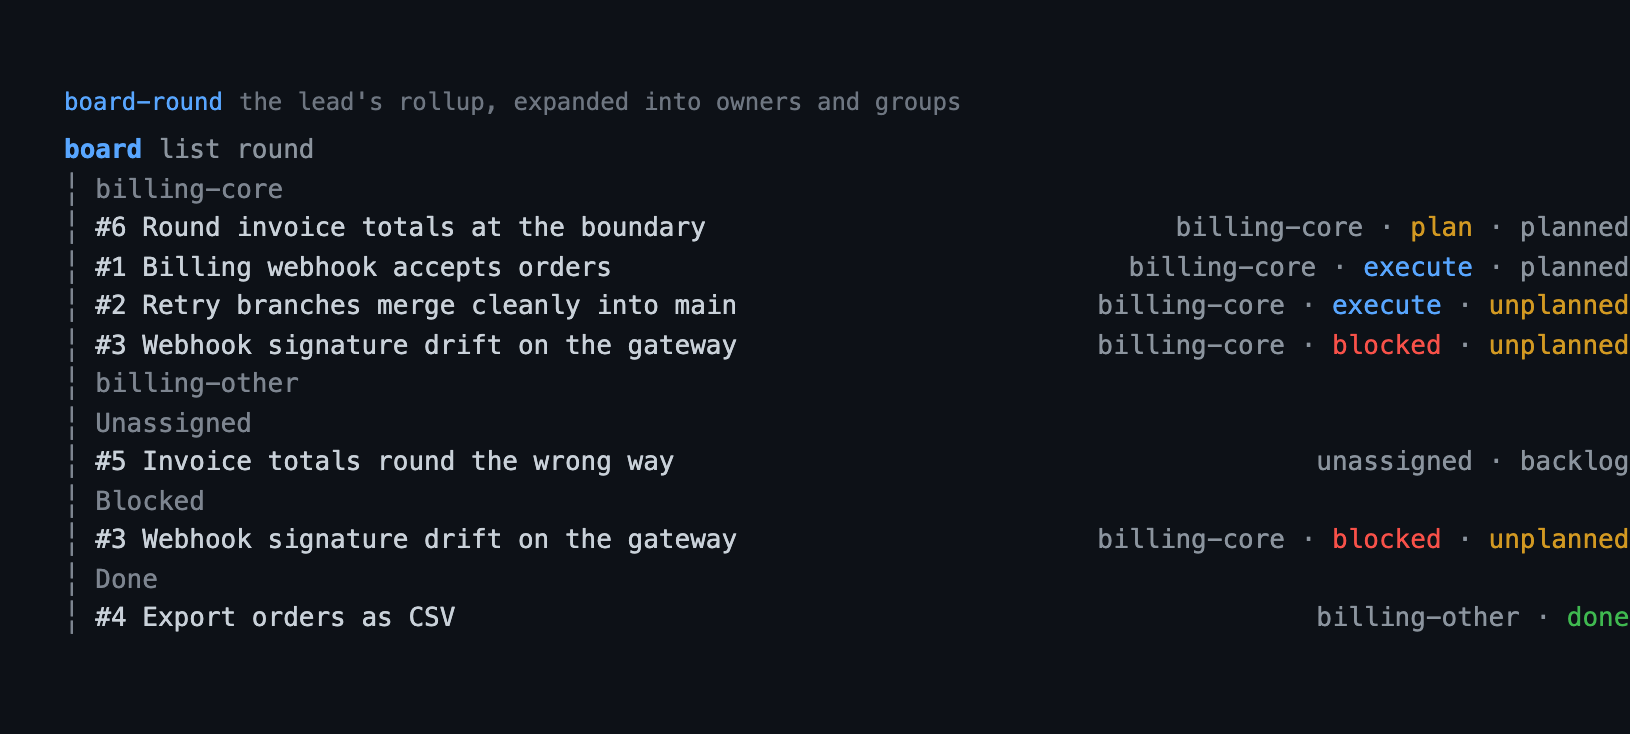
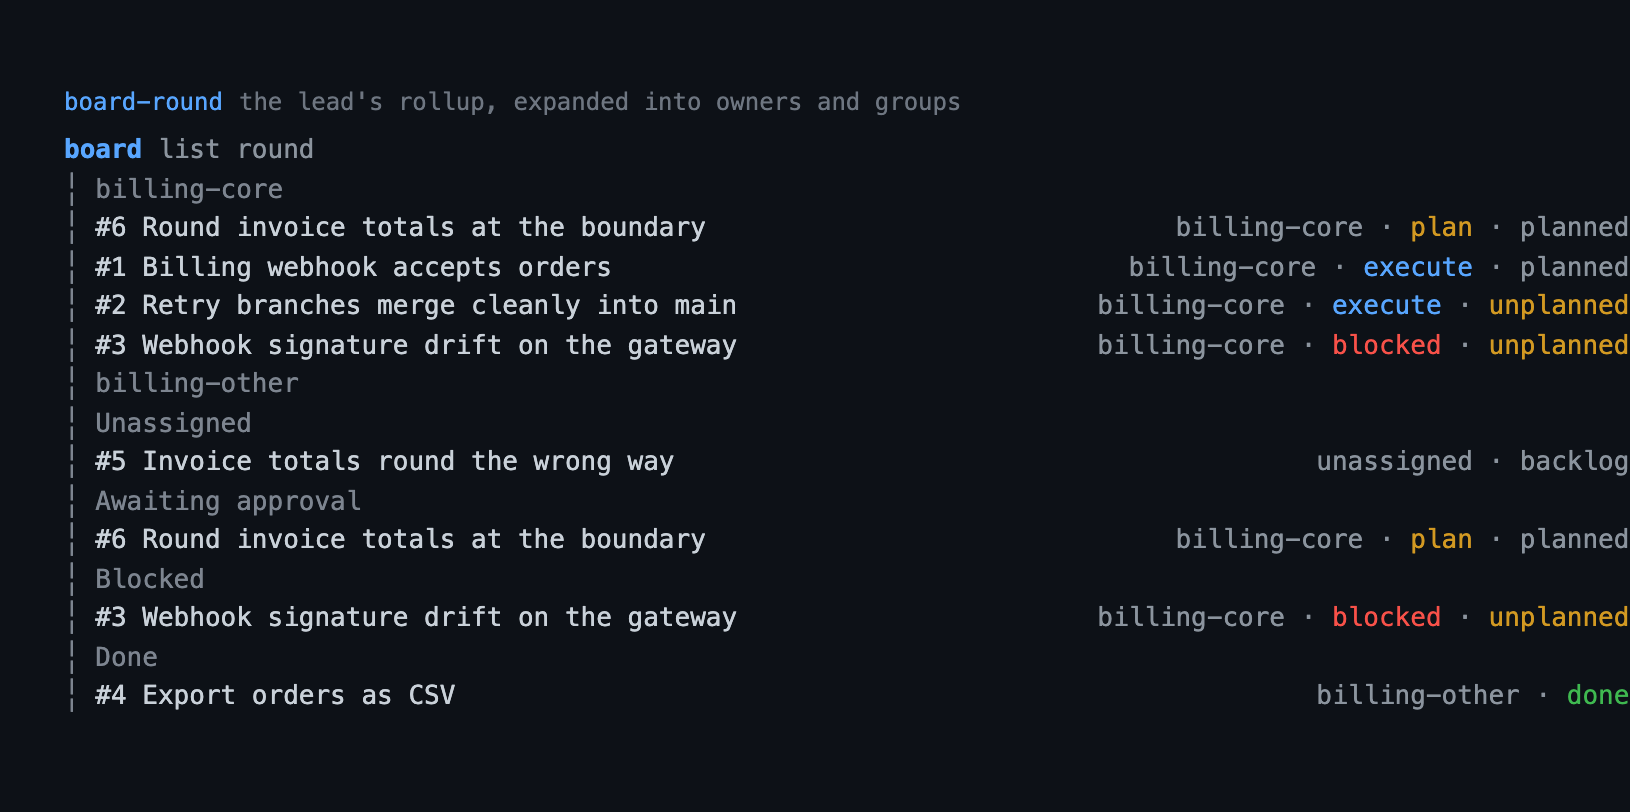
fix(board): draw the lead's queue and re-check a pile move
The transcript's `list round` block sectioned six of the rollup's seven
groups, so `awaiting approval` — the queue a lead acts on — was only in the
text above it. Every group now has a section, pinned by a test, and the
gallery's `board-round` image is captured again from the same fixture.

`archive` and `drop` re-check the card's revision before the file is moved
or removed. A write landing between the read and the rename could recreate
the card on the board while its copy lay in the archive, or beside a dropped
card's `ended/` record.

`assign` loses the note it carried for the deleted page write path, and with
it the held-card branch no path could reach: a held card is refused, and
`reclaim` is how it changes hands, which the board and team docs now say.
The approve refusal's unreachable second branch, two orphaned doc comments,
and the comments still claiming the page writes are gone or corrected.

diff --git a/lib/board/steps.ts b/lib/board/steps.ts
@@ -50,38 +50,23 @@ export function claim(card: Card, actor: Actor, board: BoardIndex, limits: WipLi
 	return enter(card, "plan", board, limits, { owner: ownerOf(actor), offeredAt: undefined });
 }
 
-/** Hand a card to somebody: a pool card comes with the lane, a held one only changes hands. */
-export function assign(
-	card: Card,
-	to: Actor,
-	rawNote: unknown,
-	actor: Actor,
-	now: number,
-	board: BoardIndex,
-	limits: WipLimits,
-): Prepared {
+/**
+ * Hand a pool card to somebody: the owner is recorded and the card enters `plan`.
+ *
+ * A held card is refused rather than handed over, because the owner a handoff would skip is
+ * the one the rules protect: changing hands is `reclaim` and a second assignment. Naming the
+ * session that already holds it is the one held case left, and it is a no-op.
+ */
+export function assign(card: Card, to: Actor, board: BoardIndex, limits: WipLimits): Prepared {
 	if (LANE_RULES[card.lane].terminal) return { error: `${cardRef(card.id)} is done; it cannot be assigned.` };
-	if (card.owner !== undefined && !holds(card, to)) return { error: heldBy(card) };
-	if (holds(card, to)) return { changed: false, fields: null };
+	if (card.owner !== undefined) {
+		return holds(card, to) ? { changed: false, fields: null } : { error: heldBy(card) };
+	}
 	const waiting = waitingOn(card, board);
 	if (waiting !== undefined) return { error: waiting };
-	// Assignment moves a card only out of the pool: a card already in `plan`, `execute`, or
-	// `blocked` keeps the lane it earned, and the new holder inherits the state.
-	const fields: Partial<Card> = { owner: ownerOf(to), offeredAt: undefined };
-	if (card.owner === undefined) {
-		const entered = enter(card, "plan", board, limits, fields);
-		if ("error" in entered) return entered;
-		if (entered.fields === null) return entered;
-		Object.assign(fields, entered.fields);
-	}
-	if (rawNote !== undefined) {
-		const parsed = normalizeNote(rawNote);
-		if ("error" in parsed) return { error: parsed.error };
-		// One revision, not two: the history says who it went to in the same write that
-		// recorded the owner, so a reader never sees the assignment without the sentence.
-		Object.assign(fields, appendNote(card, actor, now, parsed.text));
-	}
-	return { changed: true, fields };
+	// A pool card is the only card this moves, so it comes with the lane a claim would give it:
+	// the owner inherits the work from its first step.
+	return enter(card, "plan", board, limits, { owner: ownerOf(to), offeredAt: undefined });
 }
 
 /** Hand a card back to the pool. The contract and its approval stay: the plan did not change. */
@@ -168,7 +153,7 @@ function enter(
 	board: BoardIndex,
 	limits: WipLimits,
 	fields: Partial<Card>,
-): Prepared {
+): { error: string } | { fields: Partial<Card>; changed: true } {
 	const full = wipRefusal(lane, [...board.values()], limits);
 	if (full !== undefined) return { error: `${cardRef(card.id)} cannot enter ${lane}: ${full}` };
 	return { changed: true, fields: { ...fields, lane } };
@@ -323,15 +308,17 @@ export function approve(card: Card, actor: Actor, now: number): Prepared {
 	if (holds(card, actor)) {
 		return { error: `${heldBy(card)} Its contract is approved by a session that does not hold it.` };
 	}
-	const missing = missingContractFields(card.contract);
-	if (missing.length > 0) {
-		return {
-			error: `${cardRef(card.id)} has no contract to approve yet: ${missing.join(", ")} ${missing.length === 1 ? "is" : "are"} missing.`,
-		};
+	const contract = card.contract;
+	const missing = missingContractFields(contract);
+	// One refusal for both shapes: a card with no contract names every field, and one with a
+	// line still blank names the blank one. A complete contract is never undefined, so the
+	// check above is also what narrows it.
+	if (contract === undefined || missing.length > 0) {
+		const gaps = missing.length === 0 ? "" : `: ${missing.join(", ")} ${missing.length === 1 ? "is" : "are"} missing`;
+		return { error: `${cardRef(card.id)} has no contract to approve yet${gaps}.` };
 	}
-	if (card.contract === undefined) return { error: `${cardRef(card.id)} has no contract to approve yet.` };
-	if (card.contract.approved?.by === actor.label) return { changed: false, fields: null };
-	return { changed: true, fields: { contract: { ...card.contract, approved: { by: actor.label, at: now } } } };
+	if (contract.approved?.by === actor.label) return { changed: false, fields: null };
+	return { changed: true, fields: { contract: { ...contract, approved: { by: actor.label, at: now } } } };
 }
 
 /** Record the spot-check of finished work, by a session that does not hold the card. */

diff --git a/extensions/board/result.test.ts b/extensions/board/result.test.ts
@@ -12,6 +12,7 @@ import { coloringTheme } from "../../test/helpers/fakes.ts";
 import { type Card, CARD_VERSION } from "../../lib/board/card.ts";
 import { LANE_RULES } from "../../lib/board/lanes.ts";
 import type { Actor } from "../../lib/board/rules.ts";
+import type { RoundSummary } from "../../lib/board/round.ts";
 import { REASON_TONE } from "../../lib/board/tone.ts";
 import { collapsedLine, resultInput } from "./result.ts";
 import { boardRowLineFor } from "./rows.ts";
@@ -97,5 +98,35 @@ describe("the rows a mine listing draws", () => {
 		};
 		expect(rowOf(marked)).toContain(`${colour("accent")}#4`);
 		expect(rowOf(plain)).toContain(`${colour("label")}#4`);
+	});
+});
+
+describe("the rollup's sections", () => {
+	test("draws every group the round reports, in the order the text prints it", () => {
+		// Every group carries one card, and the group it belongs to is the assertion: a
+		// rollup group that loses its section is invisible in the text above it.
+		const round: RoundSummary = {
+			owners: [{ label: PEER.label, cards: [card()], done: [] }],
+			unassigned: [card({ id: "1", lane: "backlog", owner: undefined })],
+			unplanned: [card({ id: "2" })],
+			unapproved: [card({ id: "3" })],
+			blocked: [card({ id: "4", lane: "blocked", blocked: { kind: "decision" } })],
+			idle: [card({ id: "5", lane: "execute" })],
+			done: [card({ id: "6", lane: "done" })],
+		};
+		const input = resultInput({ action: "list", me: ME, round, cards: [] });
+		if (input?.kind !== "sections") throw new Error("a rollup is sections");
+		expect(input.sections.map((entry) => entry.label)).toEqual([
+			PEER.label,
+			"Unassigned",
+			"Unplanned",
+			"Awaiting approval",
+			"Blocked",
+			"Idle",
+			"Done",
+		]);
+		// The lead's queue is the one group a reader acts on, so the card is named there.
+		const approval = input.sections.find((entry) => entry.label === "Awaiting approval");
+		expect(approval?.rows.map((row) => row.id)).toEqual(["3"]);
 	});
 });

diff --git a/lib/board/store.ts b/lib/board/store.ts
@@ -316,6 +316,15 @@ export function createStore(
 			if (!result.changed) {
 				return { ok: true, card: result.card, changed: false, dropped: false, archived: false };
 			}
+			// Last look before the write, asked for every path that writes: a writer that landed
+			// in between is the re-read the next pass applies against. The move and the removal
+			// are writes too — without this, a note landing between the read above and the
+			// rename puts the card back on the board while its copy lies in the other pile.
+			const current = await read(id);
+			if (!current || current.rev !== card.rev) {
+				changedUnderneath = true;
+				continue;
+			}
 			if (op.kind === "drop") {
 				// The record lands first: a crash between the two leaves a card that still
 				// exists with a note explaining it, never a card that is gone unexplained.
@@ -331,13 +340,6 @@ export function createStore(
 				}
 				await moveCard(cardsDir, archiveDir, id);
 				return { ok: true, card: result.card, changed: true, dropped: false, archived: true };
-			}
-			// Last look before the rename: a writer that landed in between is the
-			// re-read the next pass applies against.
-			const current = await read(id);
-			if (!current || current.rev !== card.rev) {
-				changedUnderneath = true;
-				continue;
 			}
 			await writeCardFile(pile, id, result.card);
 			return { ok: true, card: result.card, changed: true, dropped: false, archived: false };
@@ -511,7 +513,6 @@ async function writeCardFile(dir: string, id: string, card: Card): Promise<void>
 	}
 }
 
-/** One card's bytes, ending in a newline so the file reads well in an editor. */
 /** One record as the bytes a file holds: tab-indented JSON with a closing newline. */
 function serialize(record: Card | EndedCard): string {
 	return `${JSON.stringify(record, null, "\t")}\n`;

diff --git a/lib/board/rules.test.ts b/lib/board/rules.test.ts
@@ -181,8 +181,8 @@ describe("assign", () => {
 	});
 
 	test("assignment is not a lane change: a card in plan stays there", () => {
-		// A card is assigned to its own holder, which is the one case a held card can be
-		// assigned at all; the lane it earned is what the new holder inherits.
+		// Naming the session that already holds a card is the one held case assign accepts, and
+		// it is a no-op: the lane it earned is unchanged and no revision is spent.
 		const card = approved();
 		const result = accepted(applyOp(card, { kind: "assign", to: CORE }, LEAD, NOW, board(card)));
 		expect(result.changed).toBe(false);
@@ -216,15 +216,6 @@ describe("assign", () => {
 		expect(refusal(applyOp(pool, { kind: "assign", to: CORE }, LEAD, NOW, board(...full, pool)))).toContain(
 			"cannot enter plan",
 		);
-	});
-
-	test("carries a note in the same write when one is given", () => {
-		const created = createCard("4", { title: "T", paths: [] }, LEAD, 1_000);
-		const card = accepted(
-			applyOp(created, { kind: "assign", to: CORE, note: "start with the webhook" }, LEAD, NOW, board(created)),
-		).card;
-		expect(card.notes.at(-1)).toEqual({ by: LEAD.label, at: NOW, text: "start with the webhook" });
-		expect(card.rev).toBe(2);
 	});
 });
 

diff --git a/lib/board/rules.ts b/lib/board/rules.ts
@@ -60,11 +60,11 @@ export type CardOp =
 	/** Pull a backlog card into `plan`: the only way a card starts moving. */
 	| { kind: "claim" }
 	/**
-	 * Hand a card to `to`, and — from the page, which cannot message a peer — a note that
-	 * says so. `team assign` sends a handoff instead and passes none. A backlog card comes
-	 * with the owner (`plan`); a held card only changes hands.
+	 * Hand a pool card to `to`: the owner is recorded and the card enters `plan`. A held card is
+	 * refused — `reclaim` is how it changes hands — and `team assign` sends the handoff, which
+	 * the state machine knows nothing about.
 	 */
-	| { kind: "assign"; to: Actor; note?: unknown }
+	| { kind: "assign"; to: Actor }
 	| { kind: "release" }
 	/**
 	 * Change lane. `blockedBy` and `blocker` are what a block records, `landed` says which
@@ -191,7 +191,7 @@ function prepare(card: Card, op: CardOp, actor: Actor, now: number, board: Board
 		case "claim":
 			return claim(card, actor, board, limits);
 		case "assign":
-			return assign(card, op.to, op.note, actor, now, board, limits);
+			return assign(card, op.to, board, limits);
 		case "release":
 			return release(card, actor);
 		case "move":

diff --git a/lib/board/view.ts b/lib/board/view.ts
@@ -34,7 +34,7 @@ export interface ViewTeammate {
 	mail: number;
 	/** Whether it is listening for mail; absent means its record does not say so. */
 	listening?: boolean;
-	/** Whether this is the session the page writes as. */
+	/** Whether this is the seat the page is read as. */
 	you: boolean;
 }
 
@@ -100,7 +100,7 @@ export interface ViewLane {
 /** Everything the page is allowed to know. */
 export interface BoardView {
 	/**
-	 * The session a page write is made as, and the one the page is read as: its seat.
+	 * The seat the page is read as, and the identity a reader's own row is marked against.
 	 *
 	 * The page is not a session that happens to be serving — it is a seat that outlives
 	 * whichever session serves it — so the browser is told one identity and no other.
@@ -139,7 +139,7 @@ export interface BoardView {
 
 /** What the server read before building one snapshot. */
 export interface ViewInput {
-	/** The page's own actor, which is both who it writes as and who is looking. */
+	/** The page's own actor: the seat the snapshot is read as. */
 	me: Actor;
 	cards: readonly Card[];
 	now: number;

diff --git a/extensions/board/input.ts b/extensions/board/input.ts
@@ -1,14 +1,9 @@
 /**
- * A card body as both surfaces read it: the tool's arguments and the page's JSON.
+ * A card body as `add` reads it: the four fields the tool creates a card from.
  *
- * `add` is reachable two ways, and the fields it takes are the same four — title,
- * path hints, priority, and an optional first note. The normalization, the order the
- * refusals come in, and the shape handed to the store were written twice, which is how
- * a field added to one surface reaches the store unnormalized from the other. This is
- * that body's one owner.
- *
- * Only the *fields* are shared: a refusal is translated per surface, because the tool
- * answers a model with a failed result and the page answers a browser with a status.
+ * The normalization, the order the refusals come in, and the shape handed to the store are
+ * one body, so a field added to `add` cannot reach the store unnormalized. This is the
+ * boundary in front of `store.create`; a refusal is the first field that cannot be one.
  */
 
 import {

diff --git a/lib/board/card.ts b/lib/board/card.ts
@@ -49,7 +49,6 @@ export const MAX_PATHS = 12;
 /** Longest path hint, in characters. */
 export const MAX_PATH = 200;
 
-/** Longest recorded plan path, in characters. */
 /**
  * Longest recorded plan path, in characters.
  *
@@ -399,8 +398,10 @@ export function normalizeNote(raw: unknown): { text: string } | FieldError {
 /**
  * The recorded plan path: one line, and nothing more.
  *
- * The board never reads the plan, so it does not resolve or check the path — this
- * is a note to the reader about which plan the card is executing.
+ * The board never reads the plan: `artifact.ts` resolves the caller's path against this
+ * repository's plan store and proves it is there, and `contract` stores what came back, so
+ * what arrives here is already an absolute path. This only holds it to one line and
+ * {@link MAX_PLAN}.
  */
 export function normalizePlanPath(raw: unknown): { path: string } | FieldError {
 	if (typeof raw !== "string") return { error: "path is required." };

diff --git a/extensions/board/result.ts b/extensions/board/result.ts
@@ -47,6 +47,9 @@ export function resultInput(details: BoardDetails): TailResultInput<Card> | unde
 	for (const group of round.owners) sections.push(section(group.label, group.cards, rowLine));
 	if (round.unassigned.length > 0) sections.push(section("Unassigned", round.unassigned, rowLine));
 	if (round.unplanned.length > 0) sections.push(section("Unplanned", round.unplanned, rowLine));
+	// The lead's queue: a contract nobody has signed is a card the flow stops on, so it is
+	// drawn in the order `formatRound` prints it rather than left to the text above.
+	if (round.unapproved.length > 0) sections.push(section("Awaiting approval", round.unapproved, rowLine));
 	if (round.blocked.length > 0) sections.push(section("Blocked", round.blocked, rowLine));
 	if (round.idle.length > 0) sections.push(section("Idle", round.idle, rowLine));
 	if (round.done.length > 0) sections.push(section("Done", round.done, rowLine));

diff --git a/lib/board/view.test.ts b/lib/board/view.test.ts
@@ -412,7 +412,7 @@ describe("buildView", () => {
 
 	test("marks the seat's row, because the page is the seat and not the session behind it", () => {
 		// A page outlives the session that serves it, so `you` is the seat: whoever opened it
-		// reads the roster as the name the page writes as.
+		// reads the roster as the seat's own name.
 		const view = buildView({
 			me: { id: "board:team-lead", label: "team-lead" },
 			cards: [],

diff --git a/lib/board/page-pointer.ts b/lib/board/page-pointer.ts
@@ -66,7 +66,7 @@ export interface PagePointer {
 	port: number;
 	/** The page's one token: every read, and nothing else to authorise. */
 	token: string;
-	/** The seat the page writes as. */
+	/** The seat the page is read as. */
 	seat: { id?: string; label: string };
 	/** When the page started, so a reader can tell a fresh note from a stale one. */
 	startedAt: number;

diff --git a/CHANGELOG.md b/CHANGELOG.md
@@ -178,6 +178,11 @@ to [Semantic Versioning](https://semver.org/spec/v2.0.0.html).
   it (the old field names, including a sentence with no kind) and is rewritten as version 2
   on its next write.
 
+- `docs`: the board's `team assign` row says what the rules do — a card somebody already holds
+  is refused, and `reclaim` is how it changes hands — and `team`'s limits gain the same
+  sentence. The row described a held card keeping the lane it earned, which no path could
+  reach: the owner check refuses it before the lane is read.
+
 ### Removed
 
 - `skills`: the `project-docs` skill is deleted — its `SKILL.md`, its five reference
@@ -253,6 +258,19 @@ to [Semantic Versioning](https://semver.org/spec/v2.0.0.html).
 - `plan`: `set_plan_steps`' `status` names its two values — `completed` ticks a step,
   `pending` reopens it — and says a plan step has no in-progress state, so a model arriving
   from `todo`'s three-state enum does not have a whole batch refused for it.
+- `board`: `list` with `round: true` draws the lead's awaiting-approval queue in the
+  transcript's expanded block again. The block sectioned owners, unassigned, unplanned,
+  blocked, idle, and done while the rollup has a seventh group, so the text above it counted
+  `1 awaiting approval` and the block below named nothing that needed a signature — the one
+  group a reader acts on. A round-section test now pins every label to the rollup's own
+  groups, so a group cannot lose its section unnoticed again, and
+  `assets/tools/board-round.png` is captured again from the same fixture.
+- `board`: `archive` and `drop` re-check the card's revision before the file is moved or
+  removed. The ordinary write path already did, so a writer that landed between the read and
+  the rename was re-applied; the two pile moves returned first, which let a note landing in
+  that instant recreate `cards/<id>.json` after the card was set aside — the card then sat on
+  the board and in the archive at once, with the board's copy winning every read, and it
+  could come back the same way beside a dropped card's `ended/` record.
 
 ## [0.21.0] - 2026-10-28
 
